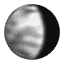
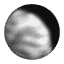
more moon phase stuff

Changed region(s): [[0.25, 0.0625, 0.8438, 0.9375]]

diff --git a/src/code/z_kankyo.c b/src/code/z_kankyo.c
@@ -2126,7 +2126,7 @@ void Environment_DrawSunAndMoon(PlayState* play) {
     // This replace gMoonDL in gameplay_keep. TODO make this gMoonDL once asset replacement is sophisticated enough
     static Gfx sMoonDL[] = {
         gsSPMatrix(0x01000000, G_MTX_NOPUSH | G_MTX_MUL | G_MTX_MODELVIEW),
-        // gsSPLoadGeometryMode(G_CULL_BACK),
+        gsSPLoadGeometryMode(G_CULL_BACK),
         gsDPSetCombineLERP(PRIMITIVE, ENVIRONMENT, TEXEL0, ENVIRONMENT, PRIMITIVE, 0, TEXEL0, 0, 0, 0, 0, COMBINED, 0,
                            0, 0, COMBINED),
         gsDPSetOtherMode(G_AD_NOTPATTERN | G_CD_MAGICSQ | G_CK_NONE | G_TC_FILT | G_TF_BILERP | G_TT_NONE | G_TL_TILE |
@@ -2215,11 +2215,12 @@ void Environment_DrawSunAndMoon(PlayState* play) {
         if (alpha > 0 && (gSaveContext.save.totalDays % 8) != 4) {
             static void* moonTexs[] = {gMoonTex, gMoonPhase01Tex, gMoonPhase02Tex, gMoonPhase03Tex, NULL, gMoonPhase03Tex, gMoonPhase02Tex, gMoonPhase01Tex};
             u8 moonPhase = gSaveContext.save.totalDays % 8;
+            // moonPhase = 5;
 
-            /* Debug_Print(0, "%d", moonPhase);
-            Debug_Print_Draw(0, play); */
+            Debug_Print(0, "%.3f", play->envCtx.sunPos.y);
+            Debug_Print_Draw(0, play);
 
-            //if moon is at a certain y height, start to lerp between skybox colors
+            //if moon is at a certain y height, start to lerp between skybox colors, y 1400 - y 900
 
             gSPMatrix(POLY_OPA_DISP++, MATRIX_FINALIZE(play->state.gfxCtx, "../z_kankyo.c", 2406), G_MTX_LOAD);
             gDPPipeSync(POLY_OPA_DISP++);
@@ -2228,11 +2229,12 @@ void Environment_DrawSunAndMoon(PlayState* play) {
             gSPSegment(POLY_OPA_DISP++, 0x08, SEGMENTED_TO_VIRTUAL(moonTexs[moonPhase]));
 
             s16 moonUls = ((gSaveContext.save.totalDays % 8) > 4) ? 255 : 0;
+            // moonUls = 255;
 
             gSPTexture(POLY_OPA_DISP++, 0xFFFF, 0xFFFF, 0, G_TX_RENDERTILE, G_ON);
             gDPLoadTextureBlock(POLY_OPA_DISP++, 0x08000000, G_IM_FMT_IA, G_IM_SIZ_8b, 64, 64, 0, G_TX_MIRROR | G_TX_WRAP,
-                             G_TX_MIRROR | G_TX_WRAP, 6, G_TX_NOMASK, G_TX_NOLOD, G_TX_NOLOD);
-            gDPSetTileSize(POLY_OPA_DISP++, G_TX_RENDERTILE, moonUls, 0,
+                             G_TX_MIRROR | G_TX_WRAP, 6, 6, G_TX_NOLOD, G_TX_NOLOD);
+            gDPSetTileSize(POLY_OPA_DISP++, G_TX_RENDERTILE, moonUls, moonUls,
                            ((64)  - 1) << G_TEXTURE_IMAGE_FRAC,
                            ((64) - 1) << G_TEXTURE_IMAGE_FRAC);
             gSPDisplayList(POLY_OPA_DISP++, sMoonDL);